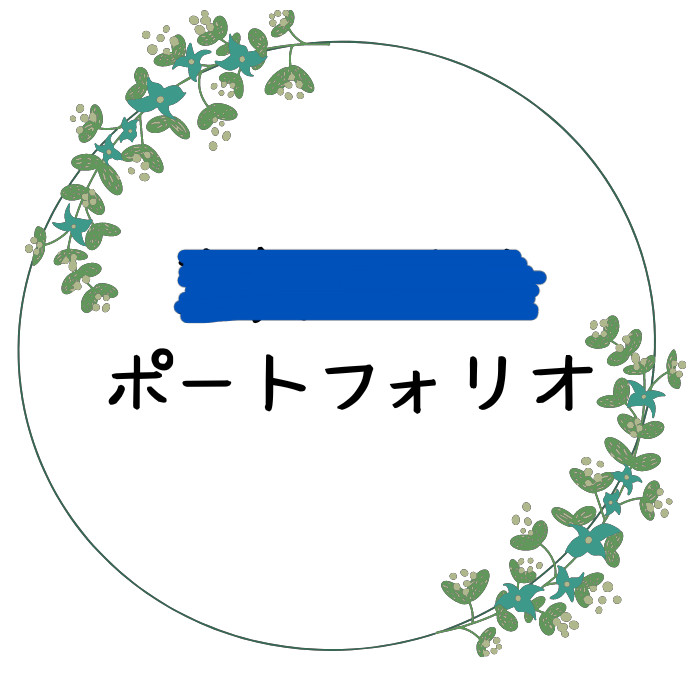
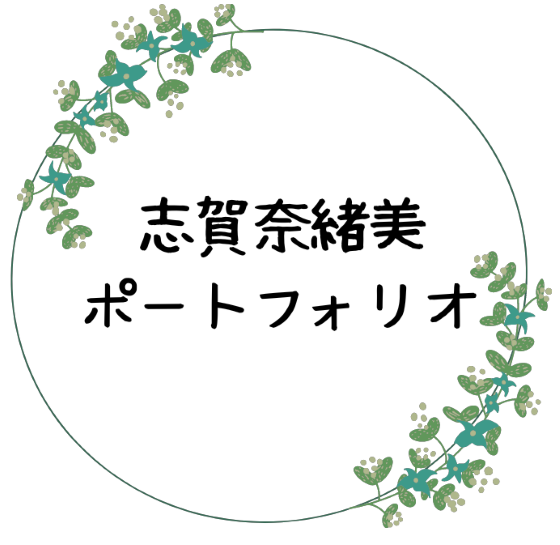
トップ画像微修正

diff --git a/css/style.css b/css/style.css
@@ -357,7 +357,10 @@ footer h4 {
     font-size: 2em;
     font-weight: bold;
   }
-
+  .top_title img {
+    width: 100%;
+    margin: 0 auto;
+  }
   .top_image {
     display: flex;
   }
